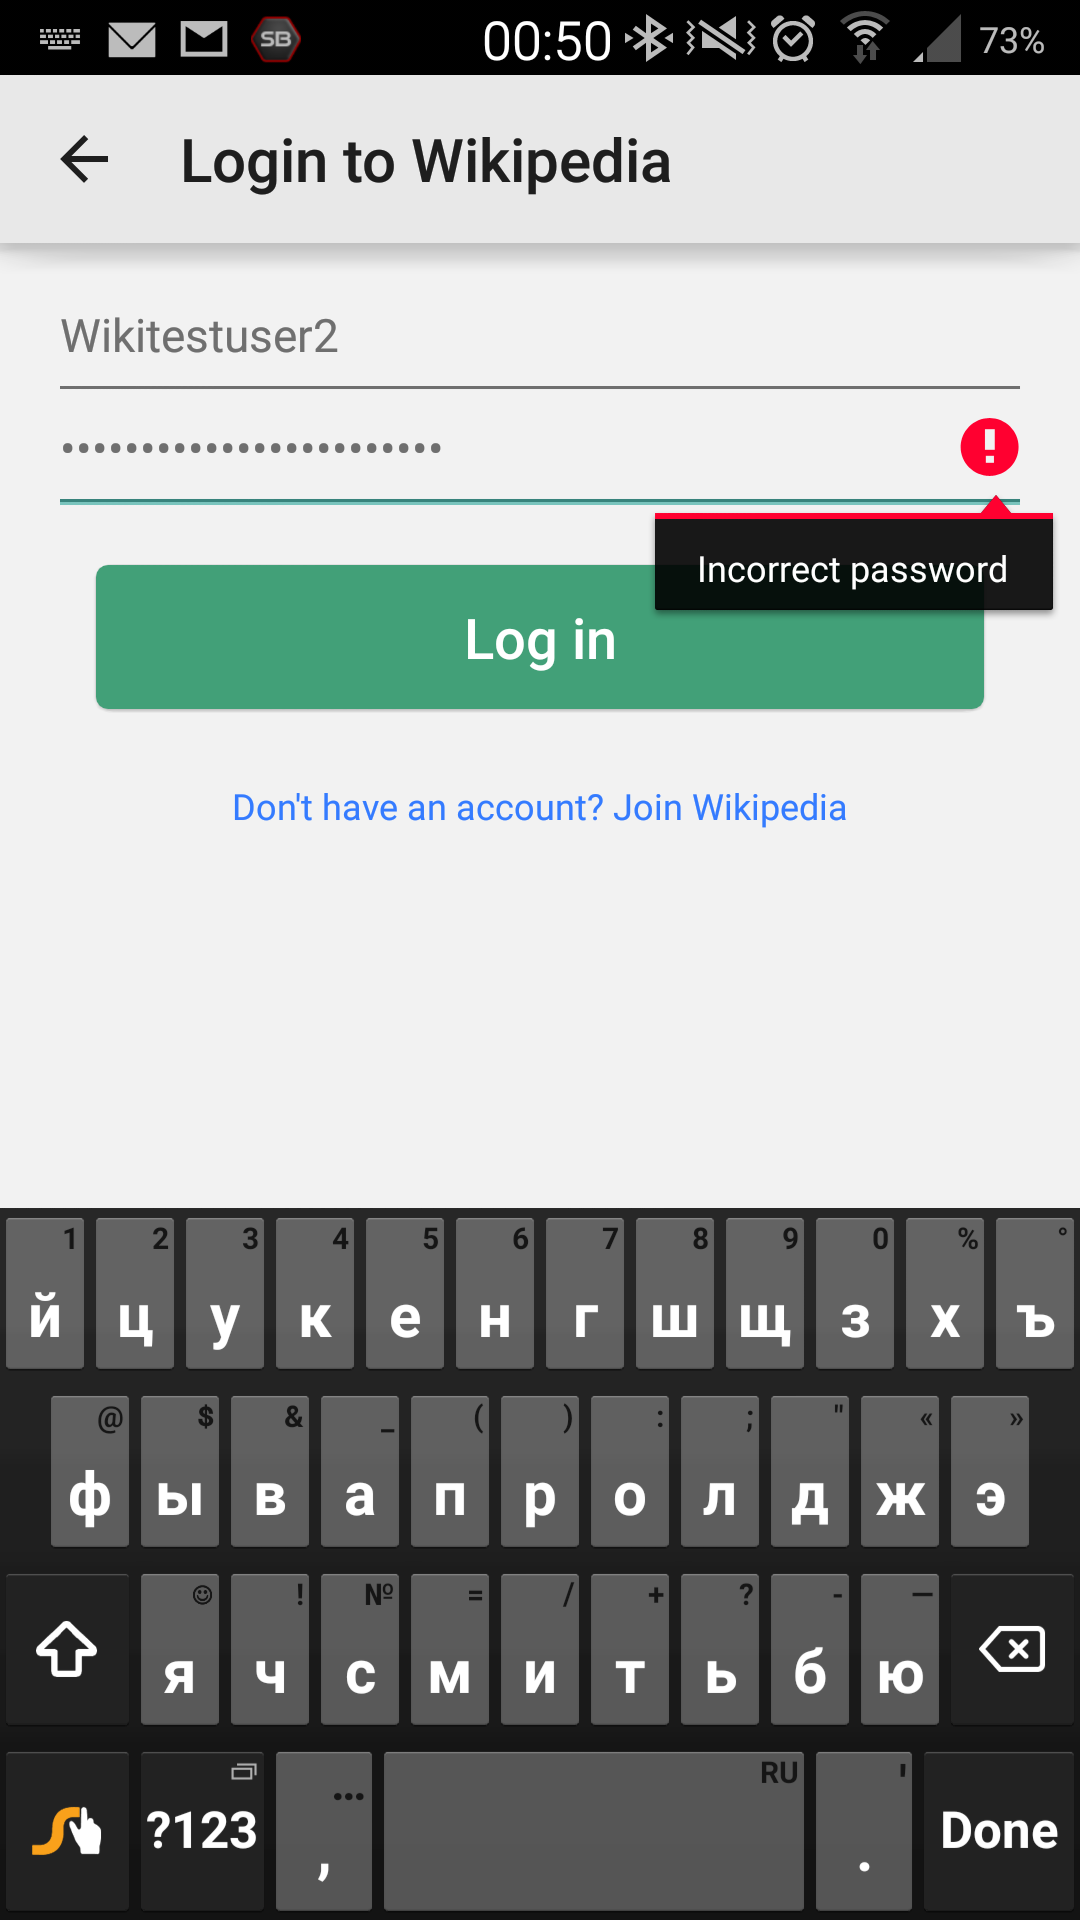
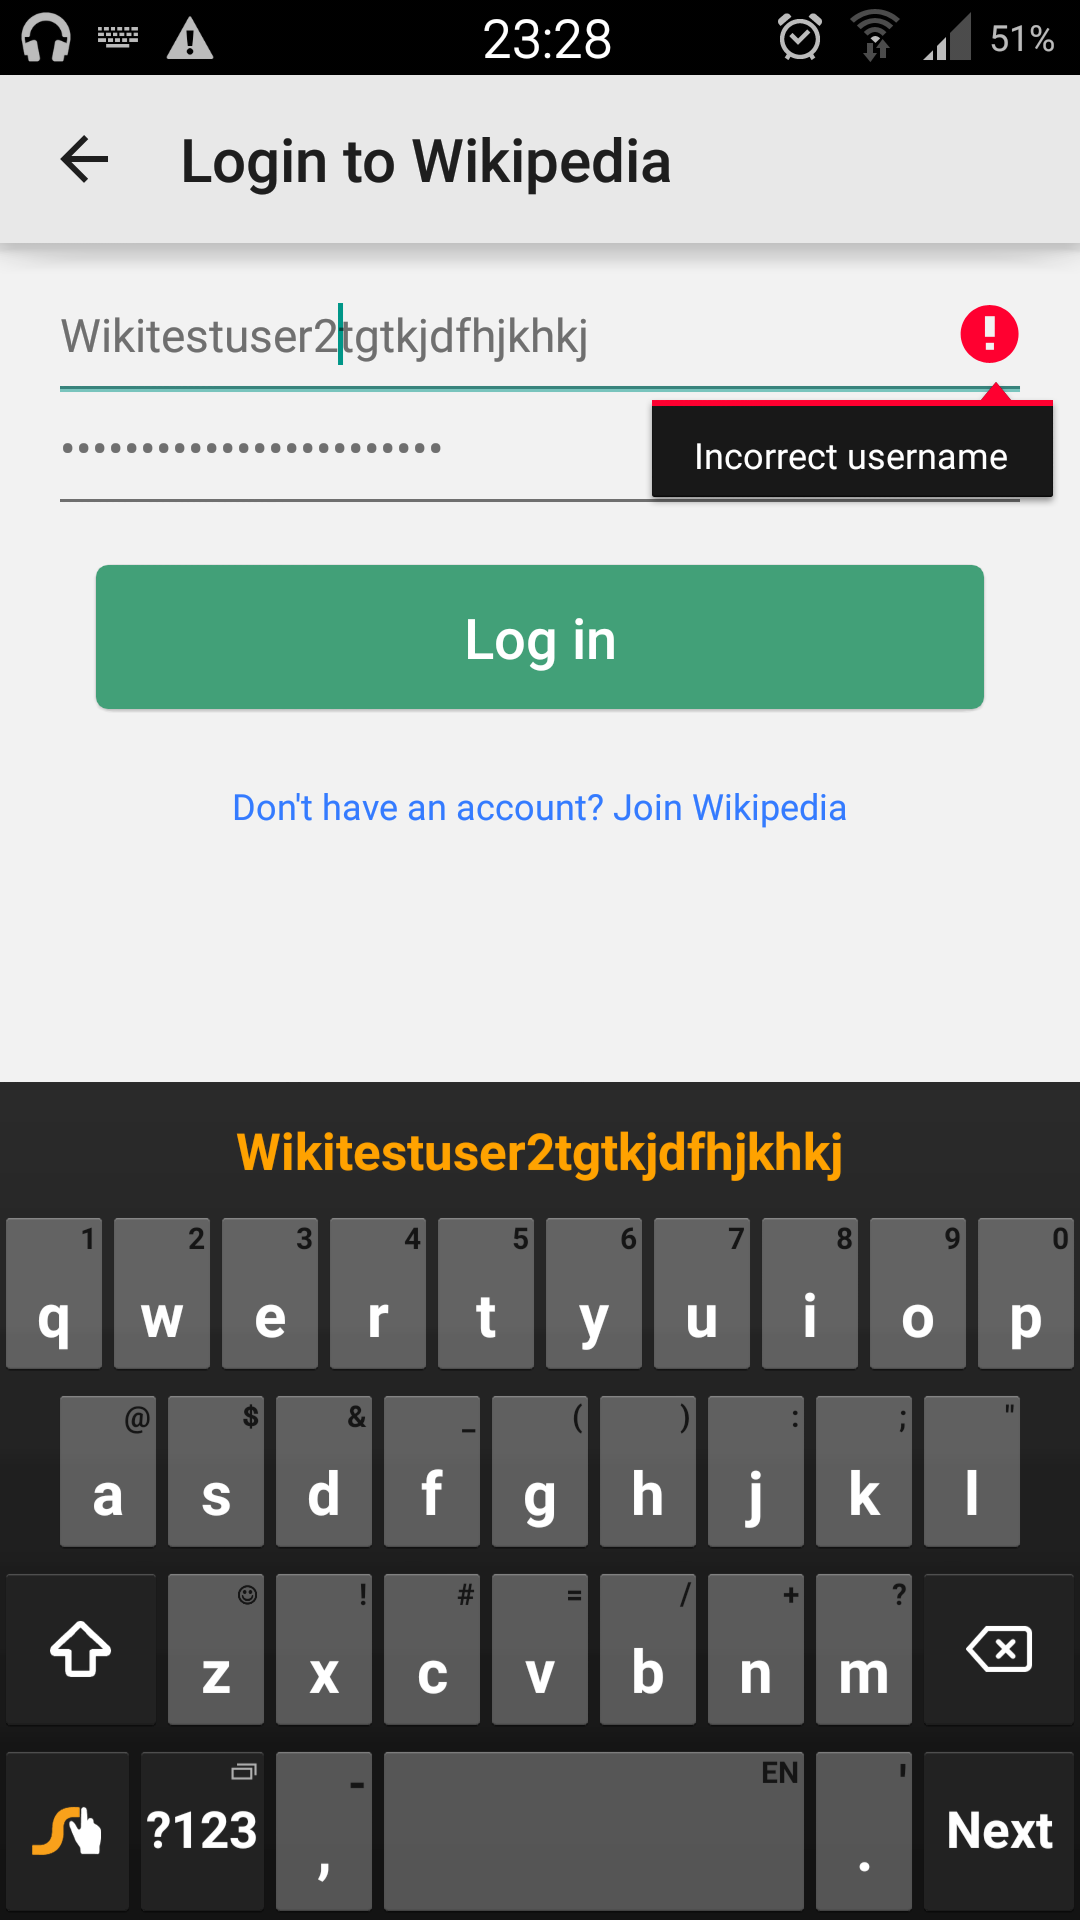
added logs to listener, updated screenshots handler

diff --git a/src/com/company/TestListener.java b/src/com/company/TestListener.java
@@ -5,6 +5,7 @@ package com.company;
  */
 import java.io.File;
 import java.io.IOException;
+import java.util.Date;
 
 import com.company.tests.CommonBaseTest;
 import org.apache.commons.io.FileUtils;
@@ -17,39 +18,41 @@ import org.testng.ITestResult;
 
 
 public class TestListener implements ITestListener {
-    WebDriver driver=null;
-    String filePath = "E:\\SCREENSHOTS\\";
+
+    private String device = "Samsung Galaxy S4"; //temporarily
+    private int m_count;
+
     @Override
     public void onTestFailure(ITestResult result) {
-        System.out.println("***** Error "+result.getName()+" test has failed *****");
+        log(result.getName() + " - Failed in " + device + " --  " + new Date(System.currentTimeMillis()));
         String methodName=result.getName().toString().trim();
-        takeScreenShot(methodName);
+        ScreenshotHandler.takeScreenShot(methodName);
     }
 
-    public void takeScreenShot(String methodName) {
-        //get the driver
-        driver= CommonBaseTest.getDriver();
-        File scrFile = ((TakesScreenshot)driver).getScreenshotAs(OutputType.FILE);
-        //The below method will save the screen shot in d drive with test method name
-        try {
-            FileUtils.copyFile(scrFile, new File(filePath+methodName+".png"));
 
-            //bad name, with data provider overrides taken screenshots if 2 or more tests fail
-
-            System.out.println("***Placed screenshot in "+filePath+" ***");
-        } catch (IOException e) {
-            e.printStackTrace();
-        }
-    }
     public void onFinish(ITestContext context) {}
 
     public void onTestStart(ITestResult result) {   }
 
-    public void onTestSuccess(ITestResult result) {   }
+    public void onTestSuccess(ITestResult result) {
+        log(result.getName() + " - Passed on " + device + " --  " + new Date(System.currentTimeMillis()));
+    }
 
-    public void onTestSkipped(ITestResult result) {   }
+    public void onTestSkipped(ITestResult result) {
+        log(result.getName() + " - Skipped on " + device + " --  " + new Date(System.currentTimeMillis()));
+    }
 
     public void onTestFailedButWithinSuccessPercentage(ITestResult result) {   }
 
     public void onStart(ITestContext context) {   }
+
+    private void log(String string)
+    {
+        System.out.println(string);
+
+        if (++m_count % 40 == 0)
+        {
+            System.out.println("");
+        }
+    }
 }

diff --git a/src/com/company/pages/LoginPage.java b/src/com/company/pages/LoginPage.java
@@ -1,5 +1,6 @@
 package com.company.pages;
 
+import com.company.ScreenshotHandler;
 import com.company.tests.CommonBaseTest;
 import io.appium.java_client.AppiumDriver;
 import io.appium.java_client.android.AndroidDriver;
@@ -97,6 +98,15 @@ public class LoginPage {
 
     public static String getToastMessageText(WebDriver driver) {
 
+
+        try {
+            Thread.sleep(6000); //bad idea, need to wait until spinner is hidden
+        } catch (InterruptedException e) {
+            e.printStackTrace();
+        }
+        return ScreenshotHandler.getScreenshotText();
+
+
         //WebElement message = driver.findElement(By.className("android.widget.Toast"));
         //
         //String filePath = "E:\\SCREENSHOTS\\";
@@ -105,33 +115,11 @@ public class LoginPage {
             //get the driver
             //driver= CommonBaseTest.getDriver();
 
-        try {
-            Thread.sleep(6000); //bad idea, need to wait until spinner is hidden
-        } catch (InterruptedException e) {
-            e.printStackTrace();
-        }
-        File scrFile = ((TakesScreenshot)driver).getScreenshotAs(OutputType.FILE);
 
-            try {
-                FileUtils.copyFile(scrFile, new File("1.png"));
-
-                //here we let screenshots be overridden if dataprovider is used
-
-            } catch (IOException e) {
-                e.printStackTrace();
-            }
-
-        //this is to be done in separate class/method
-        Ocr.setUp(); // one time setup
-        Ocr ocr = new Ocr(); // create a new OCR engine
-        ocr.startEngine("eng", Ocr.SPEED_SLOW); // English
-        String s = ocr.recognize(new File[] {new File("1.png")},
-                Ocr.RECOGNIZE_TYPE_ALL, Ocr.OUTPUT_FORMAT_PLAINTEXT);
-        System.out.println("Result: " + s);
-        ocr.stopEngine();
-        return s;
         //WebElement message = driver.findElement(By.className("android.widget.Toast"));
         //return message.getText();
+
+
     }
 
 //    public static void pressBackButton() {

diff --git a/src/com/company/ScreenshotHandler.java b/src/com/company/ScreenshotHandler.java
@@ -1,0 +1,54 @@
+package com.company;
+
+import com.asprise.ocr.Ocr;
+import com.company.tests.CommonBaseTest;
+import org.apache.commons.io.FileUtils;
+import org.openqa.selenium.OutputType;
+import org.openqa.selenium.TakesScreenshot;
+import org.openqa.selenium.WebDriver;
+
+import java.io.File;
+import java.io.IOException;
+
+/**
+ * Created by Vyacheslav on 26.03.2015.
+ */
+public class ScreenshotHandler {
+
+    //WebDriver driver=null;
+    private static String filePath = "E:\\SCREENSHOTS\\"; //bad idea, temporarily
+
+    public static File takeScreenShot(String methodName) { //bad, methodname is not always needed
+        //get the driver
+        WebDriver driver= CommonBaseTest.getDriver();
+        File scrFile = ((TakesScreenshot)driver).getScreenshotAs(OutputType.FILE);
+        //The below method will save the screen shot in d drive with test method name
+        try {
+            FileUtils.copyFile(scrFile, new File(filePath+methodName+".png"));
+
+            //bad filename, overrides taken screenshots if 2 or more tests fail in tests with data provider
+
+            System.out.println("***Placed screenshot in "+filePath+" ***");
+        } catch (IOException e) {
+            e.printStackTrace();
+        }
+        return scrFile;
+    }
+
+    public static String readAllTextFromScreenshot(File screenshot) {
+
+        Ocr.setUp(); // one time setup
+        Ocr ocr = new Ocr(); // create a new OCR engine
+        ocr.startEngine("eng", Ocr.SPEED_SLOW); // English
+        String s = ocr.recognize(new File[]{screenshot},
+                Ocr.RECOGNIZE_TYPE_ALL, Ocr.OUTPUT_FORMAT_PLAINTEXT);
+        System.out.println("Result: " + s);
+        ocr.stopEngine();
+        return s;
+    }
+
+    public static String getScreenshotText(){
+        return readAllTextFromScreenshot(takeScreenShot("testtakingscreenshot"));
+
+    }
+}

diff --git a/src/com/company/tests/LoginTest.java b/src/com/company/tests/LoginTest.java
@@ -1,5 +1,6 @@
 package com.company.tests;
 
+import com.company.ScreenshotHandler;
 import com.company.dataproviders.LoginDataProvider;
 import com.company.pages.LoginPage;
 import com.company.pages.StartPage;
@@ -46,7 +47,7 @@ public class LoginTest extends CommonBaseTest {
         LoginPage.fillPasswordField(password, driver);
         LoginPage.pressLoginButton(driver);
 
-        //Assert.assertEquals(LoginPage.getErrorMessageText(driver),expectedMessage);
         Assert.assertTrue(LoginPage.getToastMessageText(driver).contains(expectedMessage));
+        //Assert.assertTrue((driver).contains(expectedMessage));
     }
 }

diff --git a/src/com/company/dataproviders/LoginDataProvider.java b/src/com/company/dataproviders/LoginDataProvider.java
@@ -13,9 +13,8 @@ public class LoginDataProvider {
         @DataProvider(name = "login-data-provider")
         public static Object[][] dataProviderMethod() {
 
-            //*** won't work for now because of google issue https://github.com/appium/appium/issues/968
             return new Object[][]{
-                    //***{"tgtkjdfhjkhkj", "testpassword", "Incorrect username"},
+                    {"tgtkjdfhjkhkj", "testpassword", "Incorrect username"},
                     {"ttt", "testpassword", "Incorrect password"},
                     {"Wikitestuser2","WikiTestUser", "Login Success!"}//***
 
